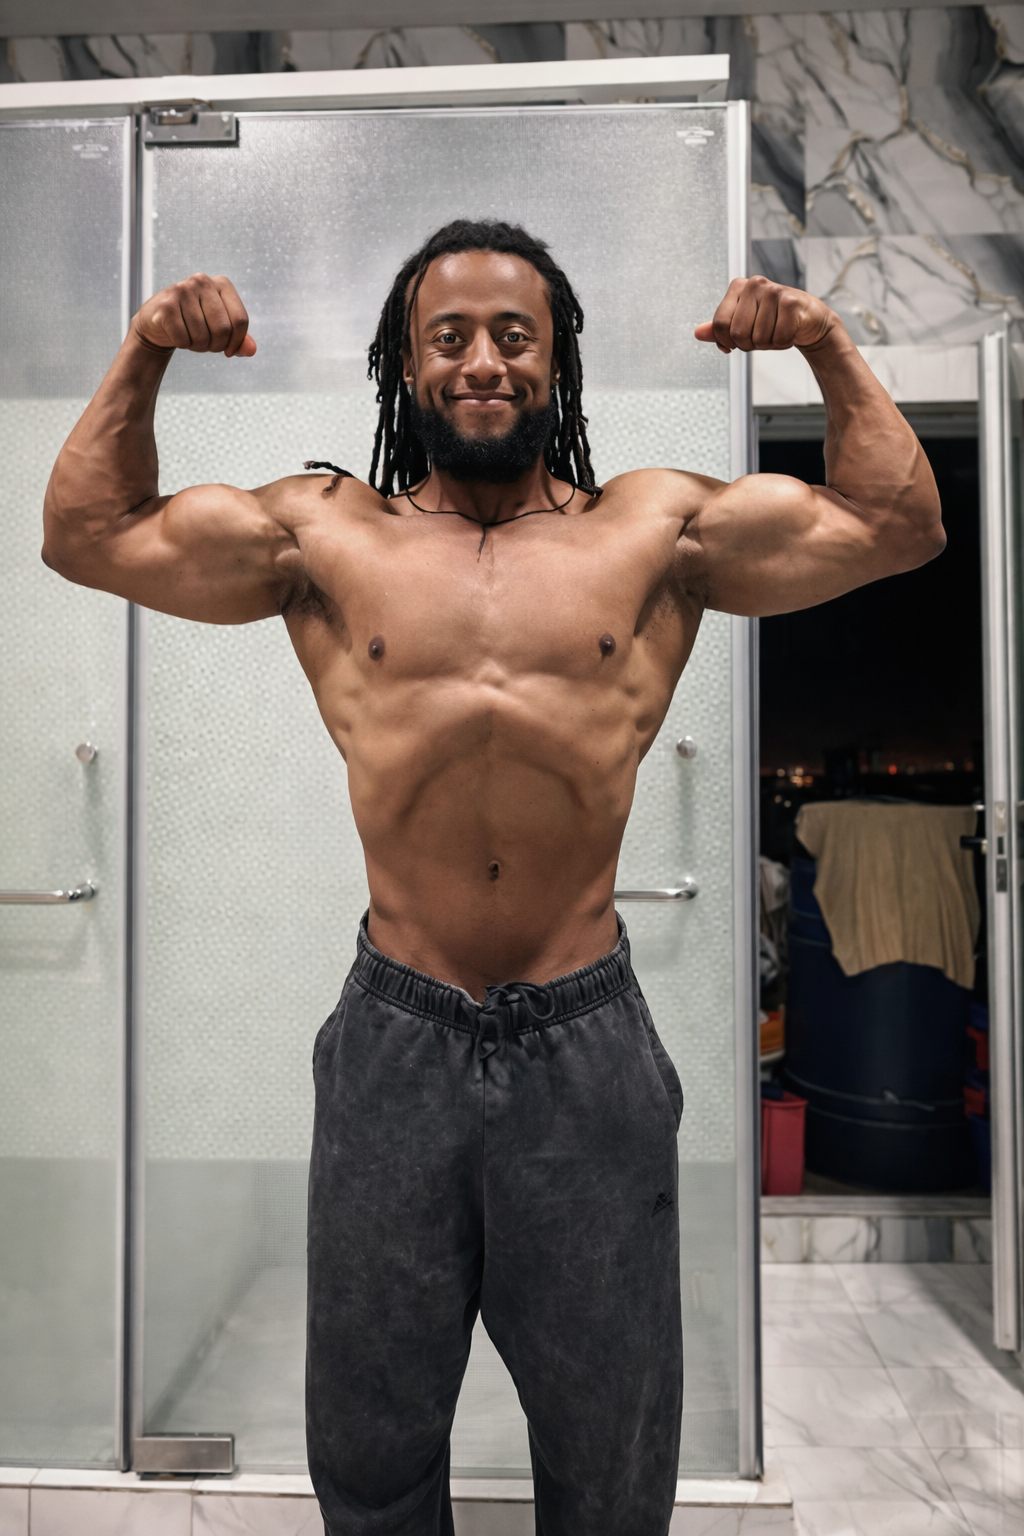
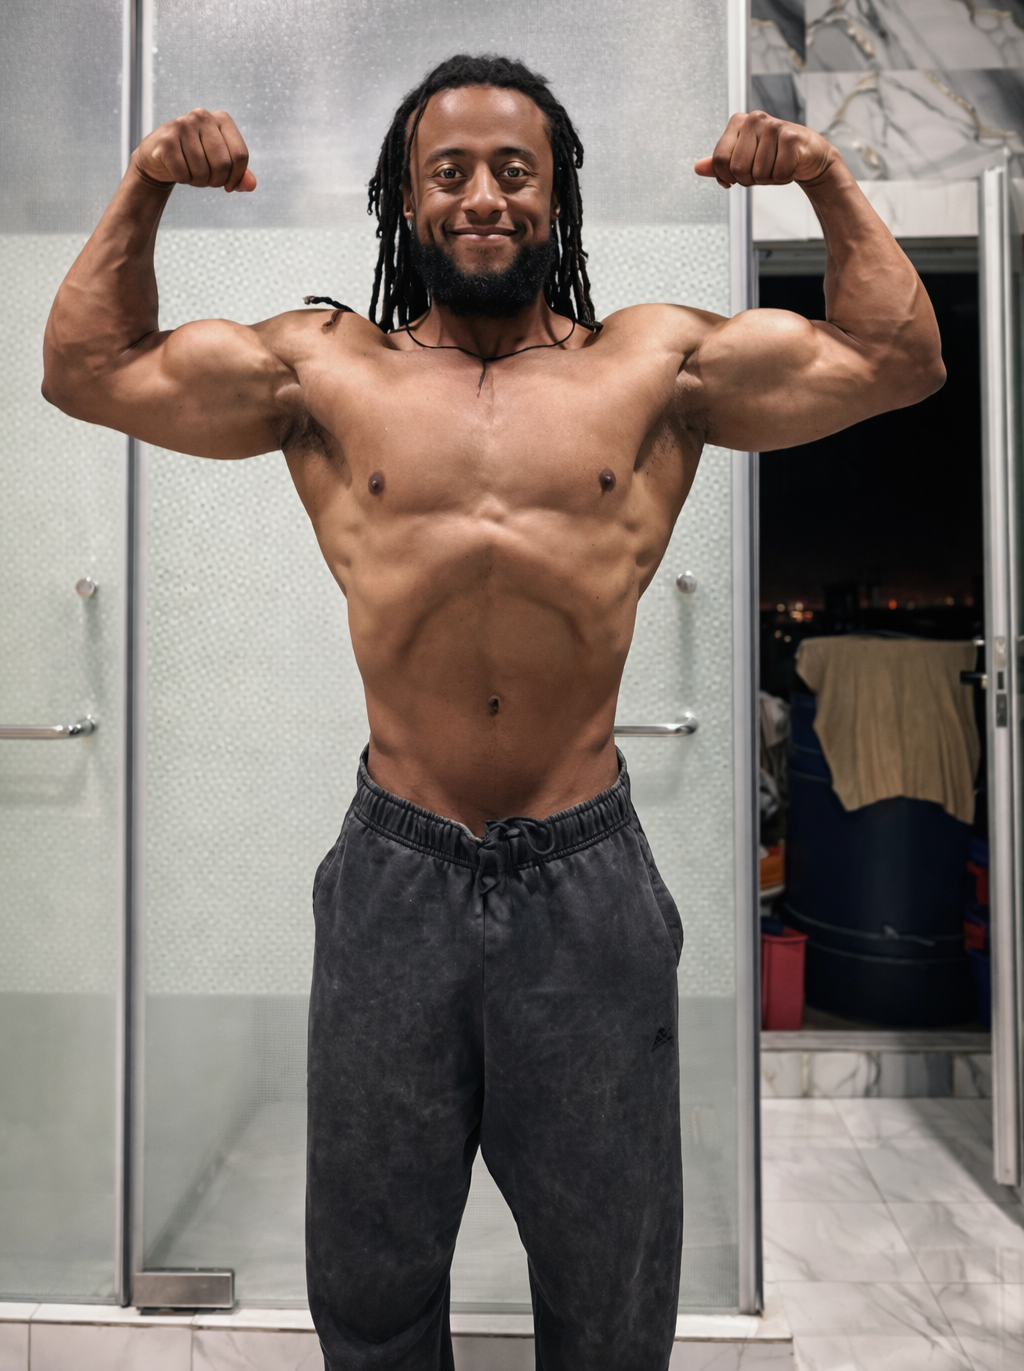
Refine Hero layout and responsive styles
Adjust Hero component for better responsive behavior and spacing: use min-h-[100dvh] to ensure full-viewport height, tweak paddings and margins (pt-24 on larger screens), normalize heading/paragraph/font sizes across breakpoints, make CTA buttons more compact and centered, add full-width wrappers where needed, and refine stats grid spacing and alignment. Also replace/update the hero image asset (web/public/pictures/sofi1.png). These changes improve mobile rendering, spacing consistency, and visual hierarchy.

diff --git a/web/components/hero.tsx b/web/components/hero.tsx
@@ -6,7 +6,7 @@ import { ArrowRight } from 'lucide-react';
 
 export default function Hero() {
   return (
-    <section className="relative h-screen flex items-center justify-center overflow-hidden bg-neutral-950">
+    <section className="relative min-h-[100dvh] flex items-center justify-center overflow-hidden bg-neutral-950">
       {/* Background Image with Overlay */}
       <div className="absolute inset-0 z-0">
         <div className="absolute inset-0 bg-gradient-to-r from-neutral-950 via-neutral-950/80 to-neutral-950/40 z-10" />
@@ -17,39 +17,40 @@ export default function Hero() {
         />
       </div>
 
-      <div className="relative z-20 max-w-7xl mx-auto px-4 sm:px-6 lg:px-8 flex flex-col items-start pt-20">
+      <div className="relative z-20 max-w-7xl mx-auto px-4 sm:px-6 lg:px-8 flex flex-col items-start pt-24 md:pt-20">
         <motion.div
           initial={{ opacity: 0, x: -50 }}
           animate={{ opacity: 1, x: 0 }}
           transition={{ duration: 0.8 }}
+          className="w-full"
         >
-          <span className="text-red-600 font-bold tracking-widest text-sm md:text-base mb-4 block uppercase">
+          <span className="text-red-600 font-bold tracking-widest text-xs md:text-sm lg:text-base mb-2 md:mb-4 block uppercase">
             Sofonias Nebiyu • Elite Performance Coach
           </span>
-          <h1 className="text-5xl md:text-7xl lg:text-8xl font-black text-white leading-tight tracking-tighter mb-6">
+          <h1 className="text-4xl sm:text-5xl md:text-7xl lg:text-8xl font-black text-white leading-tight tracking-tighter mb-4 md:mb-6">
             UNLEASH YOUR <br />
             <span className="text-transparent bg-clip-text bg-gradient-to-r from-red-500 to-red-800">
               TRUE POTENTIAL
             </span>
           </h1>
-          <p className="max-w-xl text-lg md:text-xl text-neutral-400 mb-10 leading-relaxed">
+          <p className="max-w-xl text-base sm:text-lg md:text-xl text-neutral-400 mb-8 md:mb-10 leading-relaxed">
             I don't just build bodies; I build mindsets. Join my elite coaching program and let's sculpt the best version of you together.
           </p>
           
-          <div className="flex flex-col sm:flex-row gap-4">
+          <div className="flex flex-col sm:flex-row gap-4 w-full sm:w-auto">
             <Link 
               href="/register" 
-              className="group relative px-8 py-4 bg-red-600 text-white font-bold text-lg tracking-wide overflow-hidden rounded-sm"
+              className="group relative px-6 py-3 md:px-8 md:py-4 bg-red-600 text-white font-bold text-base md:text-lg tracking-wide overflow-hidden rounded-sm text-center"
             >
-              <span className="relative z-10 flex items-center gap-2">
-                START TRAINING <ArrowRight className="w-5 h-5 group-hover:translate-x-1 transition-transform" />
+              <span className="relative z-10 flex items-center justify-center gap-2">
+                START TRAINING <ArrowRight className="w-4 h-4 md:w-5 md:h-5 group-hover:translate-x-1 transition-transform" />
               </span>
               <div className="absolute inset-0 bg-red-700 transform scale-x-0 group-hover:scale-x-100 transition-transform origin-left duration-300" />
             </Link>
             
             <Link 
               href="/programs" 
-              className="px-8 py-4 border border-neutral-700 text-white font-bold text-lg tracking-wide hover:bg-neutral-800 transition-colors rounded-sm flex items-center justify-center"
+              className="px-6 py-3 md:px-8 md:py-4 border border-neutral-700 text-white font-bold text-base md:text-lg tracking-wide hover:bg-neutral-800 transition-colors rounded-sm flex items-center justify-center text-center"
             >
               VIEW PROGRAMS
             </Link>
@@ -61,19 +62,19 @@ export default function Hero() {
           initial={{ opacity: 0, y: 50 }}
           animate={{ opacity: 1, y: 0 }}
           transition={{ delay: 0.5, duration: 0.8 }}
-          className="mt-20 grid grid-cols-2 md:grid-cols-4 gap-8 md:gap-16 border-t border-neutral-800 pt-8"
+          className="mt-12 md:mt-20 grid grid-cols-2 md:grid-cols-4 gap-6 md:gap-16 border-t border-neutral-800 pt-8 w-full"
         >
-          <div>
-            <div className="text-3xl md:text-4xl font-black text-white">500+</div>
-            <div className="text-sm text-neutral-500 font-bold uppercase tracking-wider">Clients Transformed</div>
+          <div className="text-center md:text-left">
+            <div className="text-2xl md:text-3xl lg:text-4xl font-black text-white">500+</div>
+            <div className="text-xs md:text-sm text-neutral-500 font-bold uppercase tracking-wider">Clients Transformed</div>
           </div>
-          <div>
-            <div className="text-3xl md:text-4xl font-black text-white">10+</div>
-            <div className="text-sm text-neutral-500 font-bold uppercase tracking-wider">Years Experience</div>
+          <div className="text-center md:text-left">
+            <div className="text-2xl md:text-3xl lg:text-4xl font-black text-white">10+</div>
+            <div className="text-xs md:text-sm text-neutral-500 font-bold uppercase tracking-wider">Years Experience</div>
           </div>
-          <div>
-            <div className="text-3xl md:text-4xl font-black text-white">100%</div>
-            <div className="text-sm text-neutral-500 font-bold uppercase tracking-wider">Commitment</div>
+          <div className="text-center md:text-left col-span-2 md:col-span-1">
+            <div className="text-2xl md:text-3xl lg:text-4xl font-black text-white">100%</div>
+            <div className="text-xs md:text-sm text-neutral-500 font-bold uppercase tracking-wider">Commitment</div>
           </div>
         </motion.div>
       </div>
